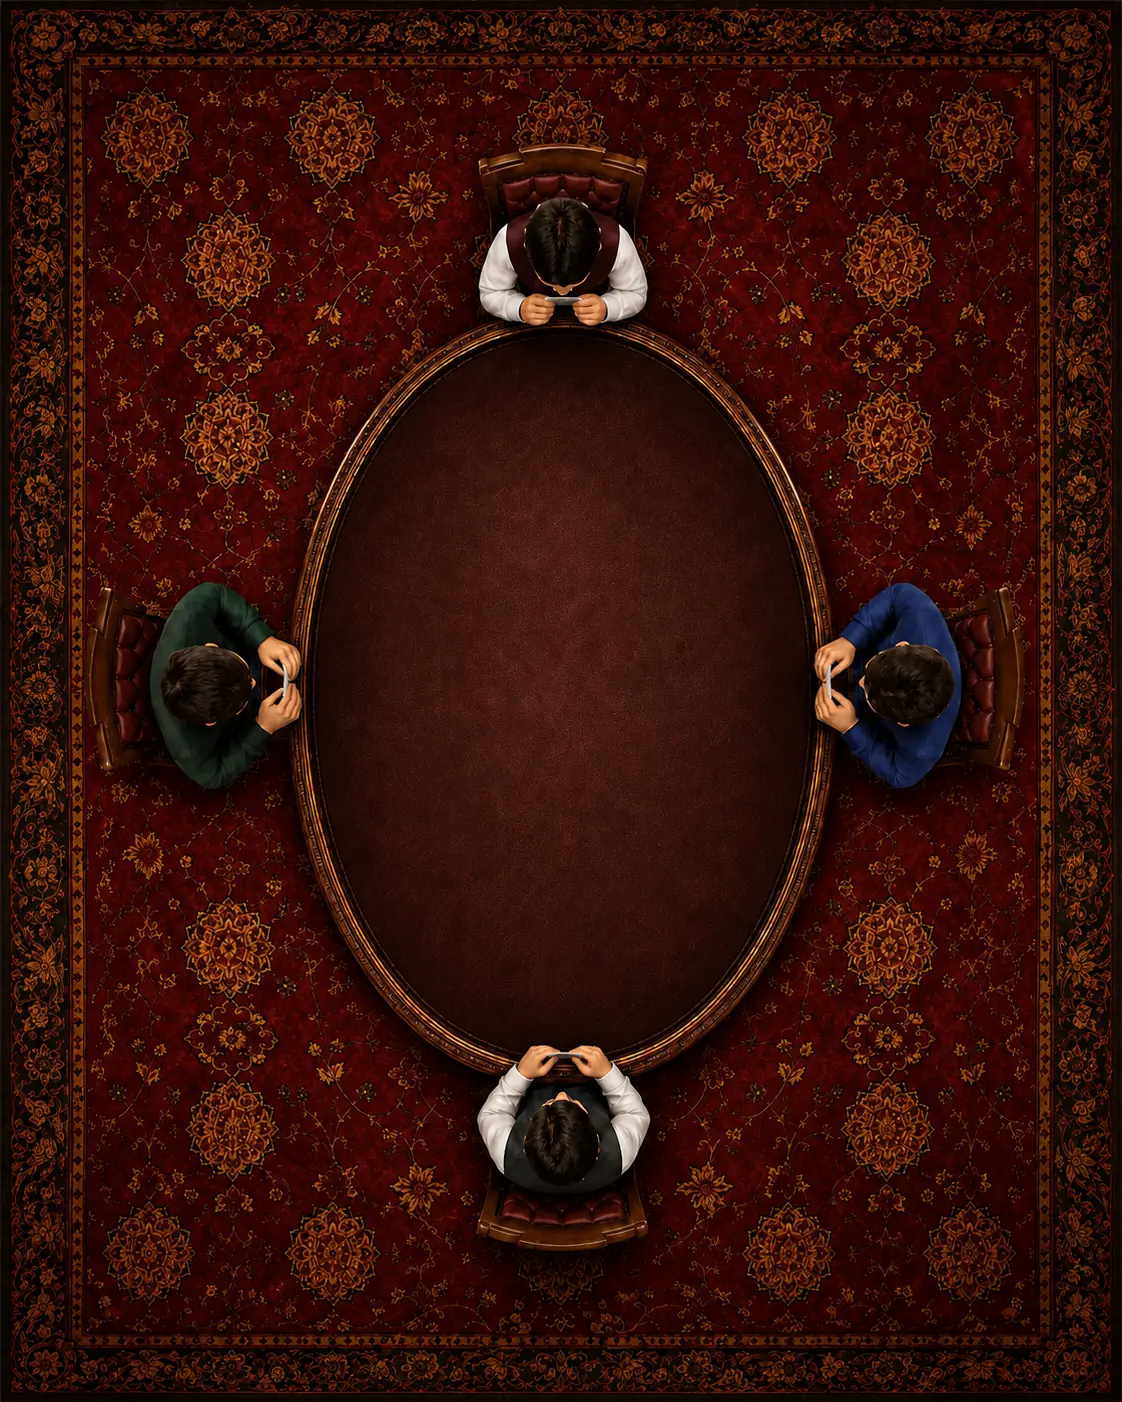
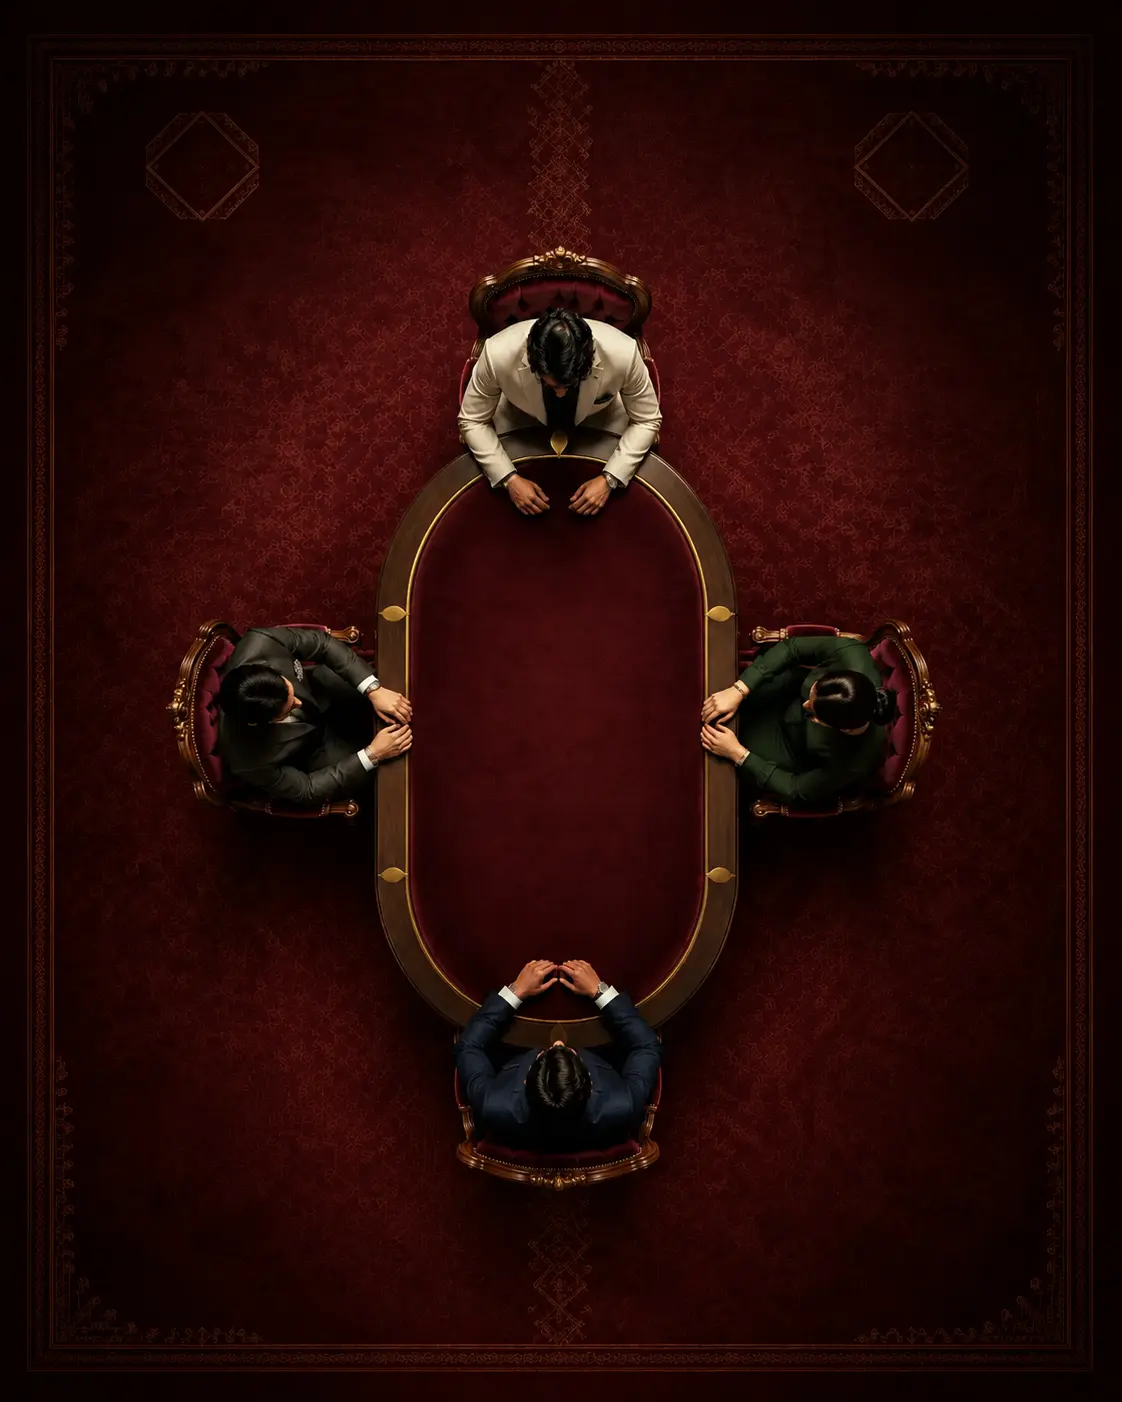
Add files via upload

diff --git a/assets/index.html b/assets/index.html
@@ -188,6 +188,44 @@
   .hakem-crown.pos-left{ left:4.6%; top:50%; transform:translate(-50%,-50%) rotate(90deg); }
   .hakem-crown.pos-right{ right:4.6%; top:50%; transform:translate(50%,-50%) rotate(-90deg); }
   @keyframes crownFloat{ 50%{ filter:drop-shadow(0 5px 4px #321200) drop-shadow(0 0 15px rgba(255,208,93,1)); } }
+  .crown-flight{
+    position:absolute; z-index:28; width:clamp(42px,8vw,72px); height:auto; color:#ffd36d; pointer-events:none;
+    translate:-50% -50%; filter:drop-shadow(0 3px 2px #321200) drop-shadow(0 0 14px rgba(255,206,86,.95));
+    animation-duration:2.65s; animation-timing-function:cubic-bezier(.22,.68,.2,1); animation-fill-mode:both;
+  }
+  .crown-flight svg{ display:block; animation:crownSpin .42s linear infinite; }
+  .crown-flight::before{
+    content:""; position:absolute; inset:-30%; border-radius:50%; border:2px solid rgba(255,221,129,.75);
+    box-shadow:0 0 13px #ffd574,inset 0 0 12px rgba(255,215,112,.55); animation:crownPulse .58s ease-in-out infinite alternate;
+  }
+  .crown-flight.pos-bottom{ animation-name:crownBottomToRight; }
+  .crown-flight.pos-right{ animation-name:crownRightToTop; }
+  .crown-flight.pos-top{ animation-name:crownTopToLeft; }
+  .crown-flight.pos-left{ animation-name:crownLeftToBottom; }
+  .seat.crown-arriving .table-crown{ animation:crownArrive .68s cubic-bezier(.18,.88,.22,1.35) both; animation-delay:var(--crown-arrive-delay,2.25s); }
+  @keyframes crownSpin{ to{ transform:rotateY(360deg) rotateZ(18deg); } }
+  @keyframes crownPulse{ to{ scale:1.2; opacity:.38; } }
+  @keyframes crownArrive{ from{ opacity:0; scale:.15; filter:brightness(2.2) drop-shadow(0 0 22px #fff0a9); } 70%{ opacity:1; scale:1.35; } to{ opacity:1; scale:1; } }
+  @keyframes crownBottomToRight{
+    0%{ left:50%; top:93%; opacity:1; scale:.72; }
+    15%{ left:17%; top:82%; scale:1; } 30%{ left:6%; top:50%; } 45%{ left:17%; top:18%; }
+    60%{ left:50%; top:7%; scale:1.12; } 78%{ left:83%; top:18%; } 100%{ left:94%; top:50%; opacity:0; scale:.55; }
+  }
+  @keyframes crownRightToTop{
+    0%{ left:94%; top:50%; opacity:1; scale:.72; }
+    15%{ left:83%; top:82%; scale:1; } 30%{ left:50%; top:93%; } 45%{ left:17%; top:82%; }
+    60%{ left:6%; top:50%; scale:1.12; } 78%{ left:17%; top:18%; } 100%{ left:50%; top:7%; opacity:0; scale:.55; }
+  }
+  @keyframes crownTopToLeft{
+    0%{ left:50%; top:7%; opacity:1; scale:.72; }
+    15%{ left:83%; top:18%; scale:1; } 30%{ left:94%; top:50%; } 45%{ left:83%; top:82%; }
+    60%{ left:50%; top:93%; scale:1.12; } 78%{ left:17%; top:82%; } 100%{ left:6%; top:50%; opacity:0; scale:.55; }
+  }
+  @keyframes crownLeftToBottom{
+    0%{ left:6%; top:50%; opacity:1; scale:.72; }
+    15%{ left:17%; top:18%; scale:1; } 30%{ left:50%; top:7%; } 45%{ left:83%; top:18%; }
+    60%{ left:94%; top:50%; scale:1.12; } 78%{ left:83%; top:82%; } 100%{ left:50%; top:93%; opacity:0; scale:.55; }
+  }
   .trick-slot{
     position:absolute; width:clamp(59px,12vw,93px); aspect-ratio:.714; z-index:3;
     --deal-x:0px; --deal-y:0px; --deal-rot:0deg; --target-rot:0deg;
@@ -211,17 +249,11 @@
     to{ opacity:1; transform:translate(-50%,-50%) rotate(var(--target-rot)) scale(1); filter:blur(0) brightness(1); }
   }
   @keyframes dealShadow{ from{ opacity:0; scale:2.2 .5; } 70%{ opacity:.72; scale:1.2 .8; } to{ opacity:.34; scale:1; } }
-  .deal-packet{
-    position:absolute; left:50%; top:50%; z-index:20; width:clamp(38px,9vw,66px); aspect-ratio:.714;
-    --packet-x:0vw; --packet-y:0vh; --packet-rot:0deg;
-    transform:translate(-50%,-50%); opacity:0; pointer-events:none;
-    animation:packetDeal .72s cubic-bezier(.18,.74,.16,1) both;
+  .deal-deck,.deal-card{
+    position:absolute; left:50%; top:50%; width:clamp(38px,8.4vw,62px); aspect-ratio:.714; pointer-events:none;
   }
-  .deal-packet.pos-top{ --packet-y:-38vh; --packet-rot:180deg; }
-  .deal-packet.pos-bottom{ --packet-y:38vh; }
-  .deal-packet.pos-left{ --packet-x:-42vw; --packet-rot:90deg; }
-  .deal-packet.pos-right{ --packet-x:42vw; --packet-rot:-90deg; }
-  .deal-packet i{
+  .deal-deck{ z-index:19; translate:-50% -50%; filter:drop-shadow(0 10px 13px rgba(0,0,0,.62)); }
+  .deal-deck i,.deal-card i{
     position:absolute; inset:0; display:block; border-radius:8px; border:1px solid rgba(255,232,172,.9);
     background:
       radial-gradient(circle at 50% 50%,rgba(242,197,108,.24),transparent 28%),
@@ -229,19 +261,29 @@
       linear-gradient(145deg,#6d1712,#260605);
     box-shadow:0 8px 18px rgba(0,0,0,.48),inset 0 0 0 3px rgba(62,8,6,.88),inset 0 0 0 5px rgba(225,169,69,.54);
   }
-  .deal-packet i:nth-child(1){ translate:-5px -4px; rotate:-3deg; }
-  .deal-packet i:nth-child(2){ translate:0 -2px; rotate:1deg; }
-  .deal-packet i:nth-child(3){ translate:5px 1px; rotate:4deg; }
-  .deal-packet b{
-    position:absolute; z-index:2; inset:0; display:grid; place-items:center; color:#ffe4a2;
-    font:950 clamp(17px,4vw,27px)/1 Arial,sans-serif; text-shadow:0 2px 4px #250402;
+  .deal-deck i:nth-child(1){ translate:-6px -5px; rotate:-4deg; }
+  .deal-deck i:nth-child(2){ translate:-2px -3px; rotate:-1deg; }
+  .deal-deck i:nth-child(3){ translate:3px 0; rotate:2deg; }
+  .deal-deck b{
+    position:absolute; z-index:3; right:-15px; top:-15px; min-width:31px; height:31px; padding:0 5px;
+    display:grid; place-items:center; color:#2b0a06; background:linear-gradient(#ffe4a2,#d99a3b);
+    border:1px solid #fff0ba; border-radius:999px; font:950 15px/1 Arial,sans-serif;
+    box-shadow:0 4px 13px rgba(0,0,0,.55),0 0 12px rgba(242,197,108,.4);
   }
-  @keyframes packetDeal{
-    0%{ opacity:0; transform:translate(-50%,-50%) scale(.45) rotate(-18deg); filter:blur(2px) brightness(.72); }
-    16%{ opacity:1; }
-    78%{ opacity:1; filter:blur(0) brightness(1.12); }
-    92%{ opacity:1; transform:translate(calc(-50% + var(--packet-x)),calc(-50% + var(--packet-y))) scale(.86) rotate(var(--packet-rot)); }
-    100%{ opacity:0; transform:translate(calc(-50% + var(--packet-x)),calc(-50% + var(--packet-y))) scale(.7) rotate(var(--packet-rot)); }
+  .deal-card{
+    z-index:20; --card-x:0vw; --card-y:0vh; --card-rot:0deg; --card-tilt:0deg;
+    opacity:0; transform:translate(-50%,-50%); animation:singleCardDeal .62s cubic-bezier(.16,.76,.17,1) both;
+  }
+  .deal-card.pos-top{ --card-y:-38vh; --card-rot:180deg; }
+  .deal-card.pos-bottom{ --card-y:38vh; }
+  .deal-card.pos-left{ --card-x:-42vw; --card-rot:90deg; }
+  .deal-card.pos-right{ --card-x:42vw; --card-rot:-90deg; }
+  @keyframes singleCardDeal{
+    0%{ opacity:0; transform:translate(-50%,-50%) scale(.86) rotate(var(--card-tilt)); filter:blur(1px) brightness(.82); }
+    10%{ opacity:1; }
+    74%{ opacity:1; filter:blur(0) brightness(1.12); }
+    91%{ opacity:1; transform:translate(calc(-50% + var(--card-x)),calc(-50% + var(--card-y))) scale(.82) rotate(calc(var(--card-rot) + var(--card-tilt))); }
+    100%{ opacity:0; transform:translate(calc(-50% + var(--card-x)),calc(-50% + var(--card-y))) scale(.7) rotate(calc(var(--card-rot) + var(--card-tilt))); }
   }
   .play-gesture{
     position:absolute; z-index:2; width:clamp(62px,11vw,100px); height:clamp(24px,4vw,38px); border-radius:50%; pointer-events:none;
@@ -538,7 +580,7 @@
     .trump-picker .card{ width:clamp(58px,15.5vw,70px); height:auto; aspect-ratio:.714; font-size:15px; }
   }
   @media (orientation:portrait) and (min-width:600px){
-    body.table-mode .table-board{ background-image:url('assets/hokm-table-tablet.webp'); }
+    body.table-mode .table-board{ background-image:url('assets/hokm-table-tablet.webp?v=11'); }
     .seat.pos-top{ top:6%; }
     .seat.pos-bottom{ bottom:6%; }
     .seat.pos-left{ left:5%; }
@@ -746,6 +788,7 @@ var lastAnimatedActionSeq = 0;
 var lastAnimatedTrickSeq = 0;
 var lastAnimatedCutSeq = 0;
 var lastScheduledDealAudioSeq = '';
+var lastCrownTransferSeq = 0;
 
 function defaultState(){
   return {
@@ -772,6 +815,8 @@ function defaultState(){
     dealStage:null,
     dealSeq:0,
     dealingStartedAt:null,
+    crownTransfer:null,
+    crownTransferSeq:0,
     trickSeq:0,
     actionSeq:0,
     cutEffect:null,
@@ -789,11 +834,13 @@ function normalizeState(st){
   if(typeof st.gameId!=='number') st.gameId=typeof st.updatedAt==='number'?st.updatedAt:Date.now();
   if(typeof st.actionSeq!=='number') st.actionSeq=0;
   if(typeof st.dealSeq!=='number') st.dealSeq=0;
+  if(typeof st.crownTransferSeq!=='number') st.crownTransferSeq=0;
   if(st.dealStage!=='initial' && st.dealStage!=='remainder') st.dealStage=null;
   if(typeof st.dealingStartedAt!=='number') st.dealingStartedAt=null;
   if(st.nextHakemIndex!==null && (!Number.isInteger(st.nextHakemIndex) || st.nextHakemIndex<0 || st.nextHakemIndex>3)) st.nextHakemIndex=null;
   if(typeof st.nextHakemConfirmedAtMatchEnd!=='boolean') st.nextHakemConfirmedAtMatchEnd=false;
   if(!st.cutEffect || typeof st.cutEffect!=='object') st.cutEffect=null;
+  if(!st.crownTransfer || typeof st.crownTransfer!=='object') st.crownTransfer=null;
   return st;
 }
 
@@ -825,6 +872,12 @@ function playTone(freq, duration, volume, delay){
 function playCardSound(delay){ var d=typeof delay==='number'?delay:.39; playTone(520,.085,.14,d); playTone(185,.11,.1,d+.018); }
 function playTrickSound(){ playTone(480,.13,.15,0); playTone(720,.17,.13,.07); }
 function playVictorySound(){ [523,659,784,1047].forEach(function(f,i){ playTone(f,.31,.17,i*.12); }); }
+function playCrownTransferSound(delay){
+  var d=typeof delay==='number'?delay:0;
+  [330,392,466,554,659,784].forEach(function(f,i){ playTone(f,.18,.12,d+i*.34); });
+  playTone(988,.42,.18,d+2.15);
+  playTone(1318,.46,.14,d+2.22);
+}
 function playCutSound(delay){
   var ctx=ensureAudio(); if(!ctx) return;
   if(ctx.state==='suspended') ctx.resume();
@@ -990,6 +1043,7 @@ async function pollTick(){
     var beforeAction = state ? (state.actionSeq||0) : 0;
     var beforePhase = state ? state.phase : null;
     var beforeCutSeq = state && state.cutEffect && state.cutEffect.seq ? state.cutEffect.seq : 0;
+    var beforeCrownSeq = state ? (state.crownTransferSeq||0) : 0;
     var results = await Promise.all([
       storageGet(GAME_KEY,true),
       pollCounter%6===0 ? storageGet(NAMES_KEY,true) : Promise.resolve(null),
@@ -1009,6 +1063,10 @@ async function pollTick(){
         pollFailed = false;
         if((parsed.actionSeq||0)>beforeAction) playCardSound();
         if(parsed.cutEffect && (parsed.cutEffect.seq||0)>beforeCutSeq) playCutSound();
+        if(parsed.crownTransfer && (parsed.crownTransferSeq||0)>beforeCrownSeq && (parsed.crownTransferSeq||0)>lastCrownTransferSeq){
+          lastCrownTransferSeq=parsed.crownTransferSeq||0;
+          if(Date.now()-(parsed.crownTransfer.at||0)<2900) playCrownTransferSound(0);
+        }
         if(parsed.phase==='matchEnd' && beforePhase!=='matchEnd') playVictorySound();
       }catch(e){ pollFailed = true; }
     } else if(!state){
@@ -1111,8 +1169,8 @@ async function persistState(ns){
 }
 
 // ---------- game actions ----------
-var DEAL_INITIAL_MS = 2900;
-var DEAL_REMAINDER_MS = 4300;
+var DEAL_INITIAL_MS = 3150;
+var DEAL_REMAINDER_MS = 4050;
 
 function dealOrder(hakem){
   return [hakem,(hakem+1)%4,(hakem+2)%4,(hakem+3)%4];
@@ -1141,6 +1199,7 @@ async function dealNewHand(bumpRound){
     lastTrickCard: null,
     cutEffect: null,
     handResult: null,
+    crownTransfer: null,
     round: round,
     phase: 'dealing',
     dealStage: 'initial',
@@ -1234,8 +1293,19 @@ async function applyCardPlay(seat, cardIndex){
     ns.matchResult = { team:team, winnerSeat:winSeat };
     ns.turnIndex = null;
     ns.phase = 'matchEnd';
-    if(teamOfSeat(ns.hakemIndex)!==team) ns.hakemIndex = (ns.hakemIndex+1)%4;
+    if(teamOfSeat(ns.hakemIndex)!==team){
+      var previousHakem=ns.hakemIndex;
+      ns.hakemIndex=(ns.hakemIndex+1)%4;
+      ns.crownTransferSeq=(state.crownTransferSeq||0)+1;
+      ns.crownTransfer={from:previousHakem,to:ns.hakemIndex,seq:ns.crownTransferSeq,at:Date.now()};
+    }else{
+      ns.crownTransfer=null;
+    }
     await persistState(ns);
+    if(ns.crownTransfer){
+      lastCrownTransferSeq=ns.crownTransferSeq||0;
+      playCrownTransferSound(.08);
+    }
     playVictorySound();
   } else {
     ns.phase = 'trickResult';
@@ -1299,8 +1369,28 @@ function botChooseCardIndex(hand, trickSoFar, trump){
 }
 function wait(ms){ return new Promise(function(res){ setTimeout(res, ms); }); }
 
-function dealPacketDelays(stage){
-  return stage==='initial' ? [0,.5,1,1.5] : [0,.42,.84,1.26,2.1,2.52,2.94,3.36];
+function dealCardPlan(stage,hakem){
+  var order=dealOrder(hakem), plan=[];
+  if(stage==='initial'){
+    for(var seatIndex=0;seatIndex<4;seatIndex++){
+      for(var cardIndex=0;cardIndex<5;cardIndex++){
+        plan.push({seat:order[seatIndex],delay:plan.length*.125});
+      }
+    }
+  }else{
+    for(var round=0;round<2;round++){
+      for(var seatIndex2=0;seatIndex2<4;seatIndex2++){
+        for(var cardIndex2=0;cardIndex2<4;cardIndex2++){
+          var withinRound=seatIndex2*4+cardIndex2;
+          plan.push({seat:order[seatIndex2],delay:(round===0?0:1.85)+withinRound*.095});
+        }
+      }
+    }
+  }
+  return plan;
+}
+function playDealCardSound(){
+  playTone(455,.042,.085,0);
 }
 function scheduleDealAudio(st){
   if(!st || st.phase!=='dealing') return;
@@ -1308,9 +1398,9 @@ function scheduleDealAudio(st){
   if(lastScheduledDealAudioSeq===key) return;
   lastScheduledDealAudioSeq=key;
   var elapsed=Math.max(0,Date.now()-(st.dealingStartedAt||Date.now()));
-  dealPacketDelays(st.dealStage).forEach(function(delay){
-    var remaining=Math.round(delay*1000-elapsed);
-    if(remaining>=-80) setTimeout(function(){ playCardSound(0); },Math.max(0,remaining));
+  dealCardPlan(st.dealStage,st.hakemIndex).forEach(function(card){
+    var remaining=Math.round(card.delay*1000-elapsed);
+    if(remaining>=-60) setTimeout(playDealCardSound,Math.max(0,remaining));
   });
 }
 
@@ -1412,6 +1502,7 @@ async function restartGameConfirm(){
   lastAnimatedTrickSeq = 0;
   lastAnimatedCutSeq = 0;
   lastScheduledDealAudioSeq = '';
+  lastCrownTransferSeq = 0;
   adminOpen = false;
   await persistState(fresh);
 }
@@ -1553,6 +1644,8 @@ function latestSeatMessage(seat){
 function seatMapHtml(opts){
   opts = opts || {};
   var collecting = (state.phase==='trickResult' || state.phase==='matchEnd') && state.lastTrickWinnerSeat!==null;
+  var crownElapsed=state.crownTransfer&&state.crownTransfer.at?Math.max(0,Date.now()-state.crownTransfer.at):99999;
+  var crownTransferActive=!!(state.crownTransfer&&crownElapsed<3100);
   var animateLatest = !!(opts.trick && opts.trick.length && (state.actionSeq||0)>lastAnimatedActionSeq);
   var animateCollection = collecting && (state.trickSeq||0)>lastAnimatedTrickSeq;
   var cutSeq = state.cutEffect && state.cutEffect.seq ? state.cutEffect.seq : 0;
@@ -1563,14 +1656,20 @@ function seatMapHtml(opts){
     var pos = seatPosition(i);
     var active = (opts.activeSeat===i);
     var isHakem = (state.hakemIndex===i);
+    var crownArriving = crownTransferActive && state.crownTransfer.to===i;
     var scoreHit = animateCollection && state.lastTrickWinnerSeat===i;
     var seatMessage = latestSeatMessage(i);
     var bubbleText = seatMessage ? String(seatMessage.text||'') : '';
     if(bubbleText.length>90) bubbleText=bubbleText.slice(0,90)+'\u2026';
-    html += '<div class="seat pos-'+pos+(active?' active':'')+(scoreHit?' score-hit':'')+'">'+
+    var crownSeatStyle=crownArriving?' style="--crown-arrive-delay:'+Math.max(-.68,2.25-crownElapsed/1000).toFixed(3)+'s"':'';
+    html += '<div class="seat pos-'+pos+(active?' active':'')+(scoreHit?' score-hit':'')+(crownArriving?' crown-arriving':'')+'"'+crownSeatStyle+'>'+
       '<div class="chip">'+(isHakem?'<span class="table-crown">'+crownIcon()+'</span>':'')+'<span class="seat-name">'+displayName(i)+'</span>'+trickCountHtml(i)+'</div>'+
       (seatMessage?'<div class="seat-chat">'+escapeHtml(bubbleText)+'</div>':'')+
     '</div>';
+  }
+  if(crownTransferActive){
+    var crownFromPos=seatPosition(state.crownTransfer.from);
+    html += '<div class="crown-flight pos-'+crownFromPos+'" style="animation-delay:-'+(crownElapsed/1000).toFixed(3)+'s" aria-hidden="true">'+crownIcon()+'</div>';
   }
   if(animateCut){
     var cutPos = seatPosition(state.cutEffect.seat);
@@ -1646,25 +1745,15 @@ function renderTrumpPhase(){
 
 function dealAnimationHtml(){
   if(!state || state.phase!=='dealing') return '';
-  var order=dealOrder(state.hakemIndex);
-  var delays=dealPacketDelays(state.dealStage);
   var elapsed=Math.max(0,Date.now()-(state.dealingStartedAt||Date.now()))/1000;
-  var packets=[];
-  if(state.dealStage==='initial'){
-    for(var i=0;i<4;i++) packets.push({seat:order[i],count:5,delay:delays[i]});
-  }else{
-    for(var round=0;round<2;round++){
-      for(var k=0;k<4;k++){
-        var idx=round*4+k;
-        packets.push({seat:order[k],count:4,delay:delays[idx]});
-      }
-    }
-  }
-  return packets.map(function(packet){
-    var delay=packet.delay-elapsed;
-    return '<div class="deal-packet pos-'+seatPosition(packet.seat)+'" style="animation-delay:'+delay.toFixed(3)+'s" aria-hidden="true">'+
-      '<i></i><i></i><i></i><b>'+toFaDigits(packet.count)+'</b></div>';
+  var deckCount=state.dealStage==='initial'?52:32;
+  var deck='<div class="deal-deck" aria-hidden="true"><i></i><i></i><i></i><b>'+toFaDigits(deckCount)+'</b></div>';
+  var cards=dealCardPlan(state.dealStage,state.hakemIndex).map(function(card,index){
+    var delay=card.delay-elapsed;
+    var tilt=((index%5)-2)*1.4;
+    return '<div class="deal-card pos-'+seatPosition(card.seat)+'" style="animation-delay:'+delay.toFixed(3)+'s;--card-tilt:'+tilt+'deg" aria-hidden="true"><i></i></div>';
   }).join('');
+  return deck+cards;
 }
 
 function renderDealingPhase(){
